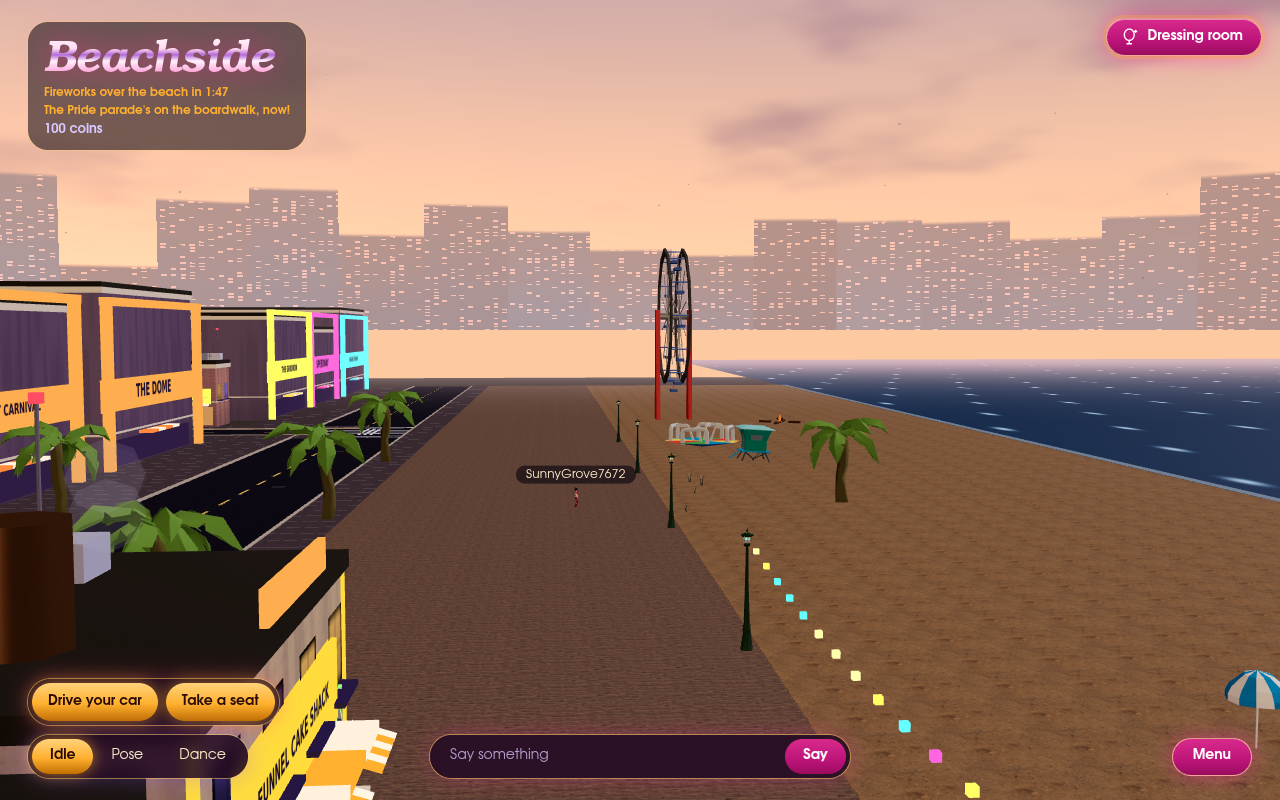
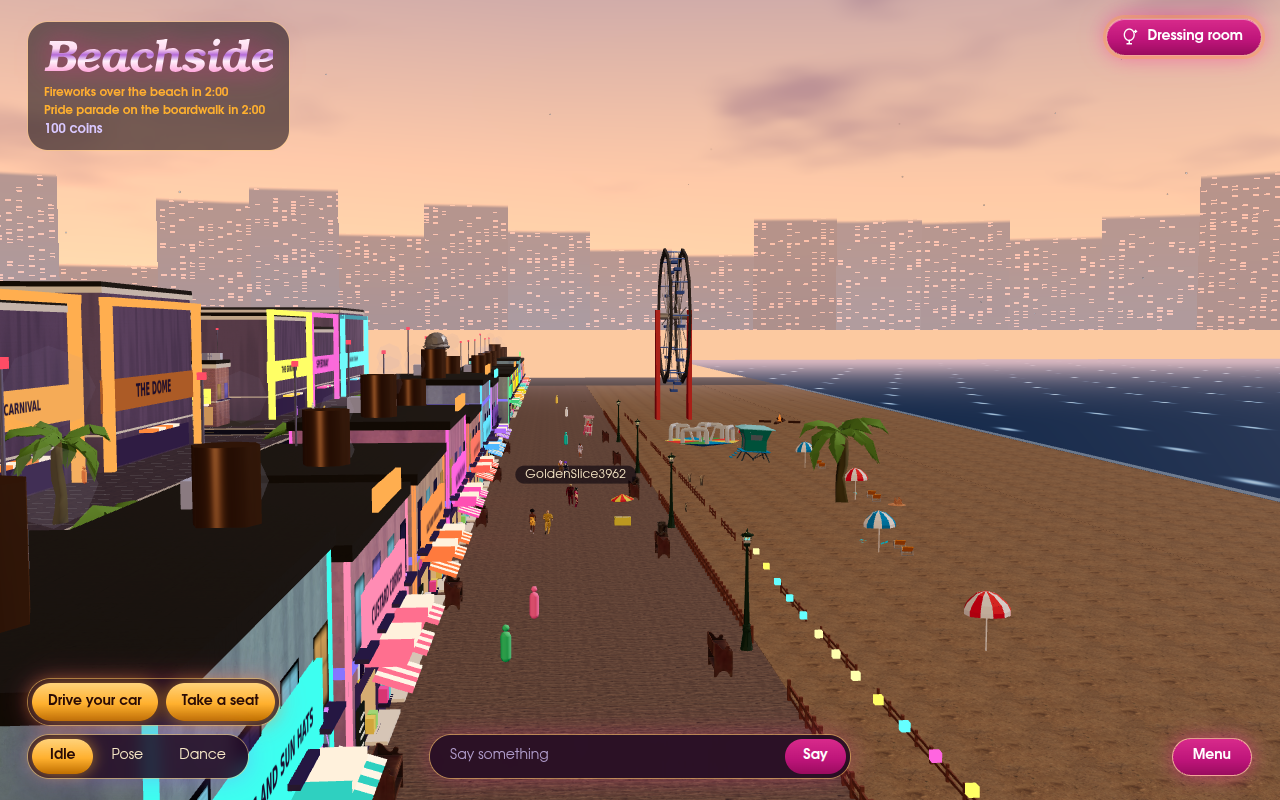
feat(city): a continuous row of boardwalk shops along the whole deck, benches and trash cans, a deck crowd (dolls plus instanced figures) that thins at night, a thicker rail

diff --git a/src/client/city/Pedestrians.tsx b/src/client/city/Pedestrians.tsx
@@ -1,6 +1,7 @@
 import { useFrame } from "@react-three/fiber";
-import { useMemo, useRef, useState } from "react";
-import type * as THREE from "three";
+import { useEffect, useMemo, useRef, useState } from "react";
+import * as THREE from "three";
+import { mergeGeometries } from "three/examples/jsm/utils/BufferGeometryUtils.js";
 import {
   PEDESTRIANS,
   nearestPedestrians,
@@ -10,9 +11,10 @@ import {
 import { Doll } from "../avatar/Doll.tsx";
 import { Creature, type CreaturePose } from "../creatures/Creature.tsx";
 import type { Player } from "../world/PlayerController.tsx";
+import { cityHour } from "./daylight.ts";
 
 /** At most this many walkers are drawn: each is a full doll. */
-const DRAWN = 4;
+const DRAWN = 6;
 const RADIUS = 55;
 /** Seconds between re-picking who is nearest. */
 const REPICK = 0.75;
@@ -49,6 +51,94 @@ function Walker({ index }: { index: number }) {
   );
 }
 
+/** Beyond the dolls: the rest of the crowd within this far, as small figures. */
+const CROWD_RADIUS = 130;
+const CROWD_MAX = 80;
+const CROWD_COLORS = [
+  "#ff6fa8",
+  "#4fb8ff",
+  "#ffd23f",
+  "#3fcf7a",
+  "#b06bff",
+  "#ff8a3d",
+  "#f2f2f2",
+  "#2fd0c0",
+];
+
+/**
+ * The crowd past the nearest dolls: one instanced mesh of capsule-and-head
+ * figures (about 100 triangles each) walking the same paths, so the deck
+ * reads as busy from a distance. Allocates nothing per frame.
+ */
+function CrowdFigures({
+  player,
+  dolls,
+}: {
+  player: Player;
+  dolls: React.RefObject<readonly number[]>;
+}) {
+  const mesh = useRef<THREE.InstancedMesh>(null);
+  const picked = useRef<readonly number[]>([]);
+  const last = useRef(-Infinity);
+  const dummy = useMemo(() => new THREE.Object3D(), []);
+  const pose = useRef<PedestrianPose>({ x: 0, z: 0, yaw: 0 });
+  const geometry = useMemo(() => {
+    const body = new THREE.CapsuleGeometry(0.22, 0.85, 2, 6).translate(
+      0,
+      0.85,
+      0,
+    );
+    const head = new THREE.SphereGeometry(0.15, 6, 4).translate(0, 1.62, 0);
+    const merged = mergeGeometries([body.toNonIndexed(), head.toNonIndexed()]);
+    body.dispose();
+    head.dispose();
+    return merged;
+  }, []);
+  useEffect(() => {
+    const m = mesh.current;
+    if (!m) return;
+    for (let i = 0; i < CROWD_MAX; i += 1)
+      m.setColorAt(i, new THREE.Color(CROWD_COLORS[i % CROWD_COLORS.length]));
+    if (m.instanceColor) m.instanceColor.needsUpdate = true;
+  }, []);
+  useFrame(({ clock }) => {
+    const m = mesh.current;
+    if (!m) return;
+    const t = clock.elapsedTime;
+    if (t - last.current >= REPICK) {
+      last.current = t;
+      const all = nearestPedestrians(
+        [player.pos.x, player.pos.z],
+        t,
+        CROWD_MAX + DRAWN,
+        CROWD_RADIUS,
+        cityHour(),
+      );
+      picked.current = all.filter((i) => !dolls.current.includes(i));
+    }
+    const n = Math.min(picked.current.length, CROWD_MAX);
+    for (let k = 0; k < n; k += 1) {
+      const p = PEDESTRIANS[picked.current[k]];
+      pedestrianAt(p, t, pose.current);
+      dummy.position.set(pose.current.x, 0.14, pose.current.z);
+      dummy.rotation.y = pose.current.yaw;
+      dummy.updateMatrix();
+      m.setMatrixAt(k, dummy.matrix);
+    }
+    m.count = n;
+    m.instanceMatrix.needsUpdate = true;
+  });
+  return (
+    <instancedMesh
+      ref={mesh}
+      args={[geometry, undefined, CROWD_MAX]}
+      frustumCulled={false}
+    >
+      <meshStandardMaterial roughness={0.8} />
+    </instancedMesh>
+  );
+}
+
 /**
  * People walking the sidewalks: the nearest few to the player, re-picked
  * every moment as everyone moves. Their paths are pure functions of time
@@ -58,6 +148,8 @@ function Walker({ index }: { index: number }) {
 export function Pedestrians({ player }: { player: Player }) {
   const [shown, setShown] = useState<readonly number[]>([]);
   const last = useRef(-Infinity);
+  const dolls = useRef<readonly number[]>([]);
+  dolls.current = shown;
   useFrame(({ clock }) => {
     const t = clock.elapsedTime;
     if (t - last.current < REPICK) return;
@@ -67,6 +159,7 @@ export function Pedestrians({ player }: { player: Player }) {
       t,
       DRAWN,
       RADIUS,
+      cityHour(),
     );
     // only re-render when the set changes, not when the order does
     const same =
@@ -78,6 +171,7 @@ export function Pedestrians({ player }: { player: Player }) {
       {shown.map((i) => (
         <Walker key={i} index={i} />
       ))}
+      <CrowdFigures player={player} dolls={dolls} />
     </>
   );
 }

diff --git a/src/game/city/boardwalk.ts b/src/game/city/boardwalk.ts
@@ -14,6 +14,8 @@ import type { FurnitureSpot } from "./furniture.ts";
 export const DECK = { z0: 267, z1: 291 };
 /** The storefronts' south wall; the open deck is SHOP_Z1 to DECK.z1. */
 export const SHOP_Z1 = 276;
+/** The storefronts and deck furniture run this far either way from x = 0, nearly the whole deck (it ends at +-448). */
+const SHOP_EDGE = 430;
 /** Ground level of deck and sand: things stand on top of this. */
 const GROUND = 0.14;
 
@@ -44,13 +46,13 @@ const SHOP_KINDS: readonly {
 ];
 
 /**
- * The storefronts: 14 m wide, 17 m apart, from x -190 to 190, skipping the
+ * The storefronts: 14 m wide, 17 m apart, one row along the whole deck, skipping the
  * cross streets (they run down to the boardwalk) and the pier's approach.
  */
 export function boardwalkShops(blocked: (x: number) => boolean): Shop[] {
   const out: Shop[] = [];
   let i = 0;
-  for (let x = -187; x <= 187; x += 17) {
+  for (let x = -(SHOP_EDGE - 3); x <= SHOP_EDGE - 3; x += 17) {
     if (blocked(x) || blocked(x - 7) || blocked(x + 7)) continue;
     const kind = SHOP_KINDS[i % SHOP_KINDS.length];
     i += 1;
@@ -128,27 +130,28 @@ export function boardwalkFurniture(
 ): FurnitureSpot[] {
   const out: FurnitureSpot[] = [];
   // the rail along the deck's sea edge, with a gap every 51 m for the beach
-  for (let x = -189; x <= 189; x += 3) {
-    if (Math.abs(((x + 189) % 51) - 25) < 4.5 || skip(x, DECK.z1 - 0.2))
+  for (let x = -SHOP_EDGE; x <= SHOP_EDGE; x += 3) {
+    if (Math.abs(((x + SHOP_EDGE) % 51) - 25) < 4.5 || skip(x, DECK.z1 - 0.2))
       continue;
-    out.push(spot("rail", x, DECK.z1 - 0.2, 0));
+    // 1.4x, so the rail is thick enough to read from 100 m
+    out.push(spot("rail", x, DECK.z1 - 0.2, 0, 1.4));
   }
   // benches facing the sea, in front of the shops' south wall and by the rail
-  for (let x = -180; x <= 180; x += 24) {
+  for (let x = -SHOP_EDGE + 6; x <= SHOP_EDGE - 6; x += 24) {
     if (skip(x, DECK.z1 - 2)) continue;
     out.push(spot("bench", x + 6, DECK.z1 - 2.2, 0));
-    if (hash(x, 5) < 0.6) out.push(spot("bench", x + 18, SHOP_Z1 + 1.2, 0));
+    out.push(spot("bench", x + 18, SHOP_Z1 + 1.2, 0));
+    // a trash can at the end of each row of benches
+    out.push(spot("trashcan", x + 12, DECK.z1 - 1.6, 0));
+    out.push(spot("trashcan", x + 24, SHOP_Z1 + 0.8, 0));
   }
   // food carts on the deck
-  for (const [x, kind] of [
-    [-100, "popcorn-cart"],
-    [-30, "hotdog-cart"],
-    [60, "popcorn-cart"],
-    [130, "hotdog-cart"],
-    [-160, "hotdog-cart"],
-  ] as const)
+  for (let i = 0, x = -SHOP_EDGE + 40; x <= SHOP_EDGE - 40; x += 70, i++)
     // on the sea side of the deck, clear of the lane down its middle
-    out.push(spot(kind, x, DECK.z1 - 4, Math.PI));
+    if (!skip(x, DECK.z1 - 4))
+      out.push(
+        spot(i % 2 ? "hotdog-cart" : "popcorn-cart", x, DECK.z1 - 4, Math.PI),
+      );
   // an ice cream cone on the roof of the ice cream shop
   for (const s of shops)
     if (s.sign.text.includes("ICE CREAM"))
@@ -156,15 +159,15 @@ export function boardwalkFurniture(
   // the fairground end
   out.push(spot("carousel", CAROUSEL.x, CAROUSEL.z));
   // lifeguard stands facing the water
-  for (const x of [-250, -120, 160, 280])
+  for (const x of [-400, -250, -120, 160, 280, 400])
     out.push(spot("lifeguard", x, 303, 0));
   // dune fences along the line between the deck and the beach
-  for (let x = -189; x <= 189; x += 3) {
+  for (let x = -SHOP_EDGE; x <= SHOP_EDGE; x += 3) {
     if (skip(x, DECK.z1 + 3) || hash(x, 8) < 0.35) continue;
     out.push(spot("rail", x, DECK.z1 + 3, 0));
   }
   // sunbathers: an umbrella over two lounge chairs and a towel, every 22 m
-  for (let i = 0, x = -200; x <= 200; x += 22, i++) {
+  for (let i = 0, x = -SHOP_EDGE; x <= SHOP_EDGE; x += 22, i++) {
     const z = 300 + hash(x, 9) * 8;
     if (skip(x, z) || skip(x, z + 3)) continue;
     out.push(spot(i % 2 ? "umbrella-red" : "umbrella-blue", x, z));

diff --git a/src/game/city/pedestrians.ts b/src/game/city/pedestrians.ts
@@ -18,6 +18,7 @@ import { NPC_GAITS, gaitOf } from "../gaits.ts";
 import type { Vec2 } from "../walk.ts";
 import type { LandKind } from "../creatures.ts";
 import { PARK } from "./park.ts";
+import { daylightAt } from "./daylight.ts";
 import { SHOP_Z1 } from "./boardwalk.ts";
 import { CITY_SURFACES } from "./layout.ts";
 
@@ -31,6 +32,8 @@ export type Pedestrian = {
   look: Look;
   /** A dog trotting beside her (the park's dog walkers). */
   dog?: LandKind;
+  /** 0..1: she stays out later than those with lower numbers (see pedestrianOut). */
+  night: number;
 };
 
 export type PedestrianPose = { x: number; z: number; yaw: number };
@@ -73,13 +76,17 @@ export const PEDESTRIANS: readonly Pedestrian[] = CITY_SURFACES.filter(
   const along = x1 - x0 >= z1 - z0;
   const length = along ? x1 - x0 : z1 - z0;
   if (length < 30) return [];
-  const count = Math.max(1, Math.round(length / 40));
+  // the deck is the city's promenade: a walker every 12 m, the rest every 40
+  const count = Math.max(
+    1,
+    Math.round(length / (s.kind === "boardwalk" ? 12 : 40)),
+  );
   return Array.from({ length: count }, (_, k): Pedestrian => {
     const i = si * 7 + k;
     // lanes keep to the middle of the strip, clear of lamps at its edge
     // (on the deck: the stretch just south of the middle, clear of benches and carts)
     const lane =
-      s.kind === "boardwalk" ? 0.25 + rand(i, 1) * 0.2 : 0.3 + rand(i, 1) * 0.4;
+      s.kind === "boardwalk" ? 0.2 + rand(i, 1) * 0.45 : 0.3 + rand(i, 1) * 0.4;
     const a: Vec2 = along
       ? [x0 + 1, z0 + (z1 - z0) * lane]
       : [x0 + (x1 - x0) * lane, z0 + 1];
@@ -107,7 +114,12 @@ export const PEDESTRIANS: readonly Pedestrian[] = CITY_SURFACES.filter(
       speed:
         (naturalPace(gaitOf(gait).clip, man) ?? 1.3) *
         (0.95 + rand(i, 2) * 0.1),
-      start: rand(i, 3) * 400,
+      // on the deck the crowd is spread evenly along the whole strip
+      start:
+        s.kind === "boardwalk"
+          ? ((k + rand(i, 3)) / count) * ((2 * length) / 1.3)
+          : rand(i, 3) * 400,
+      night: rand(i, 13),
       look: man
         ? {
             ...DEFAULT_LOOK,
@@ -160,6 +172,12 @@ export function pedestrianAt(
   return out;
 }
 
+/** Whether she is out at `hour` (0..24): everyone by day, a quarter of the
+ * crowd at the dead of night. */
+export function pedestrianOut(p: Pedestrian, hour: number): boolean {
+  return p.night >= 0.75 * daylightAt(hour).neon;
+}
+
 const scratch: PedestrianPose = { x: 0, z: 0, yaw: 0 };
 
 /** The indices of the `count` pedestrians nearest `at` at `time`, within
@@ -169,9 +187,11 @@ export function nearestPedestrians(
   time: number,
   count: number,
   radius: number,
+  hour?: number,
 ): number[] {
   const near: { i: number; d: number }[] = [];
   PEDESTRIANS.forEach((p, i) => {
+    if (hour !== undefined && !pedestrianOut(p, hour)) return;
     // cheap reject: her whole strip is out of range
     const cx = (p.a[0] + p.b[0]) / 2;
     const cz = (p.a[1] + p.b[1]) / 2;

diff --git a/src/game/city/pedestrians.test.ts b/src/game/city/pedestrians.test.ts
@@ -111,3 +111,18 @@ test("a few joggers run the park's paths and the boardwalk's deck, none with a d
   );
   assert.ok(joggers.every((p) => !p.dog));
 });
+
+test("the deck is a crowd by day, spread along it, and thins out at night", async () => {
+  const { pedestrianOut } = await import("./pedestrians.ts");
+  const deck = PEDESTRIANS.filter((p) => p.a[1] > 276 && p.a[1] < 292);
+  assert.ok(deck.length >= 60, `${deck.length} on the deck`);
+  // by day a few hundred meters of deck hold a dozen of them
+  const near = deck.filter((p) => {
+    const x = pedestrianAt(p, 500).x;
+    return x > 0 && x < 150;
+  });
+  assert.ok(near.length >= 6, `${near.length} within 150 m`);
+  assert.ok(deck.every((p) => pedestrianOut(p, 14)));
+  const late = deck.filter((p) => pedestrianOut(p, 2)).length;
+  assert.ok(late > 0 && late < deck.length / 2, `${late} out at 2 am`);
+});
